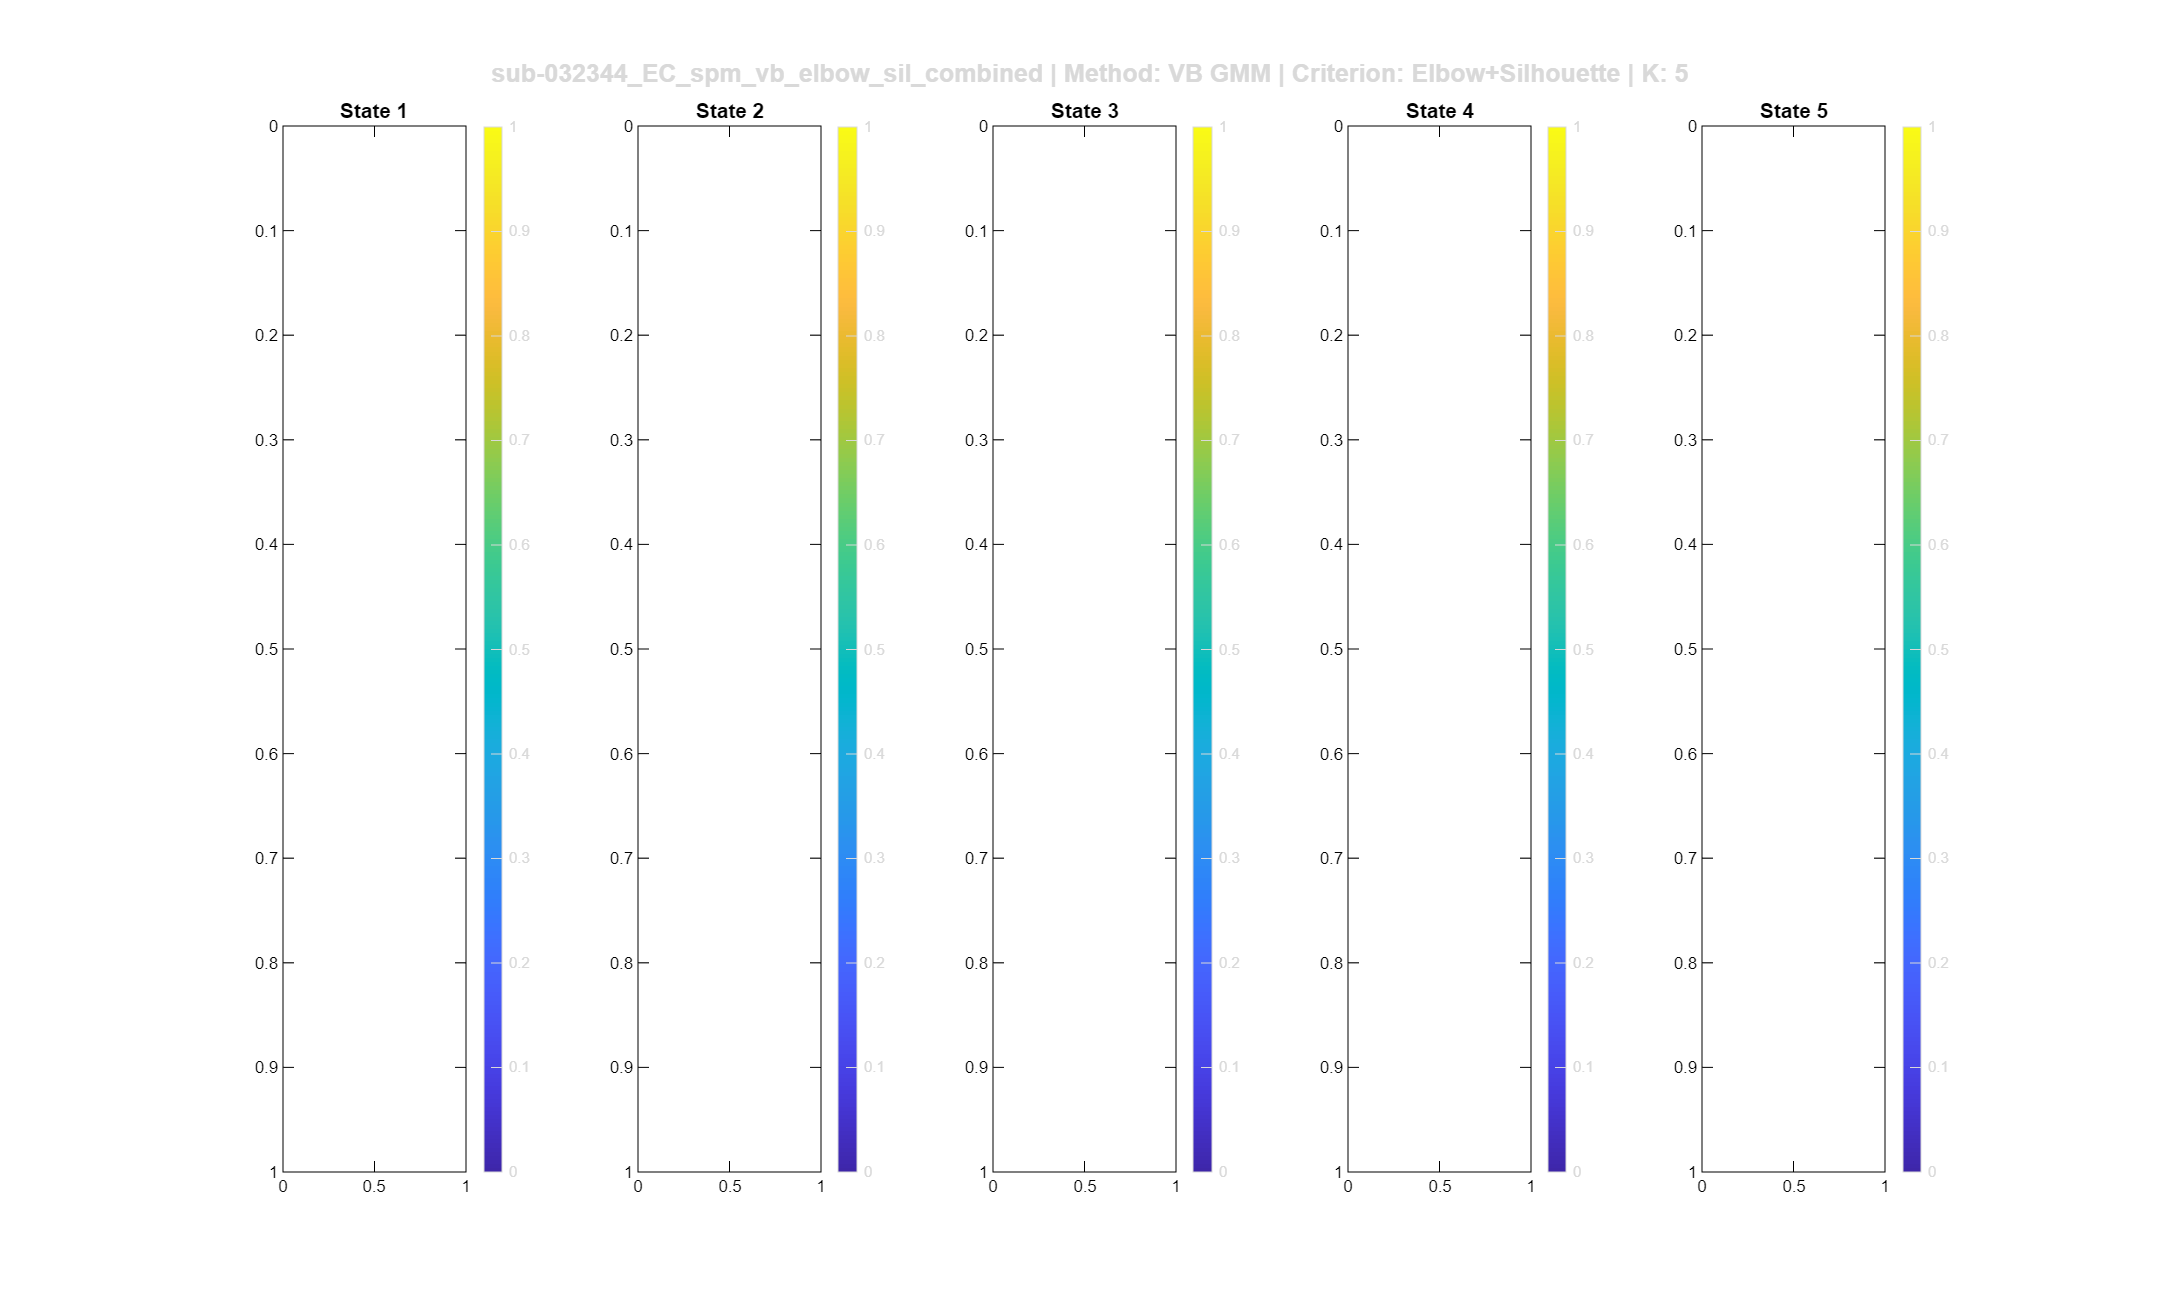
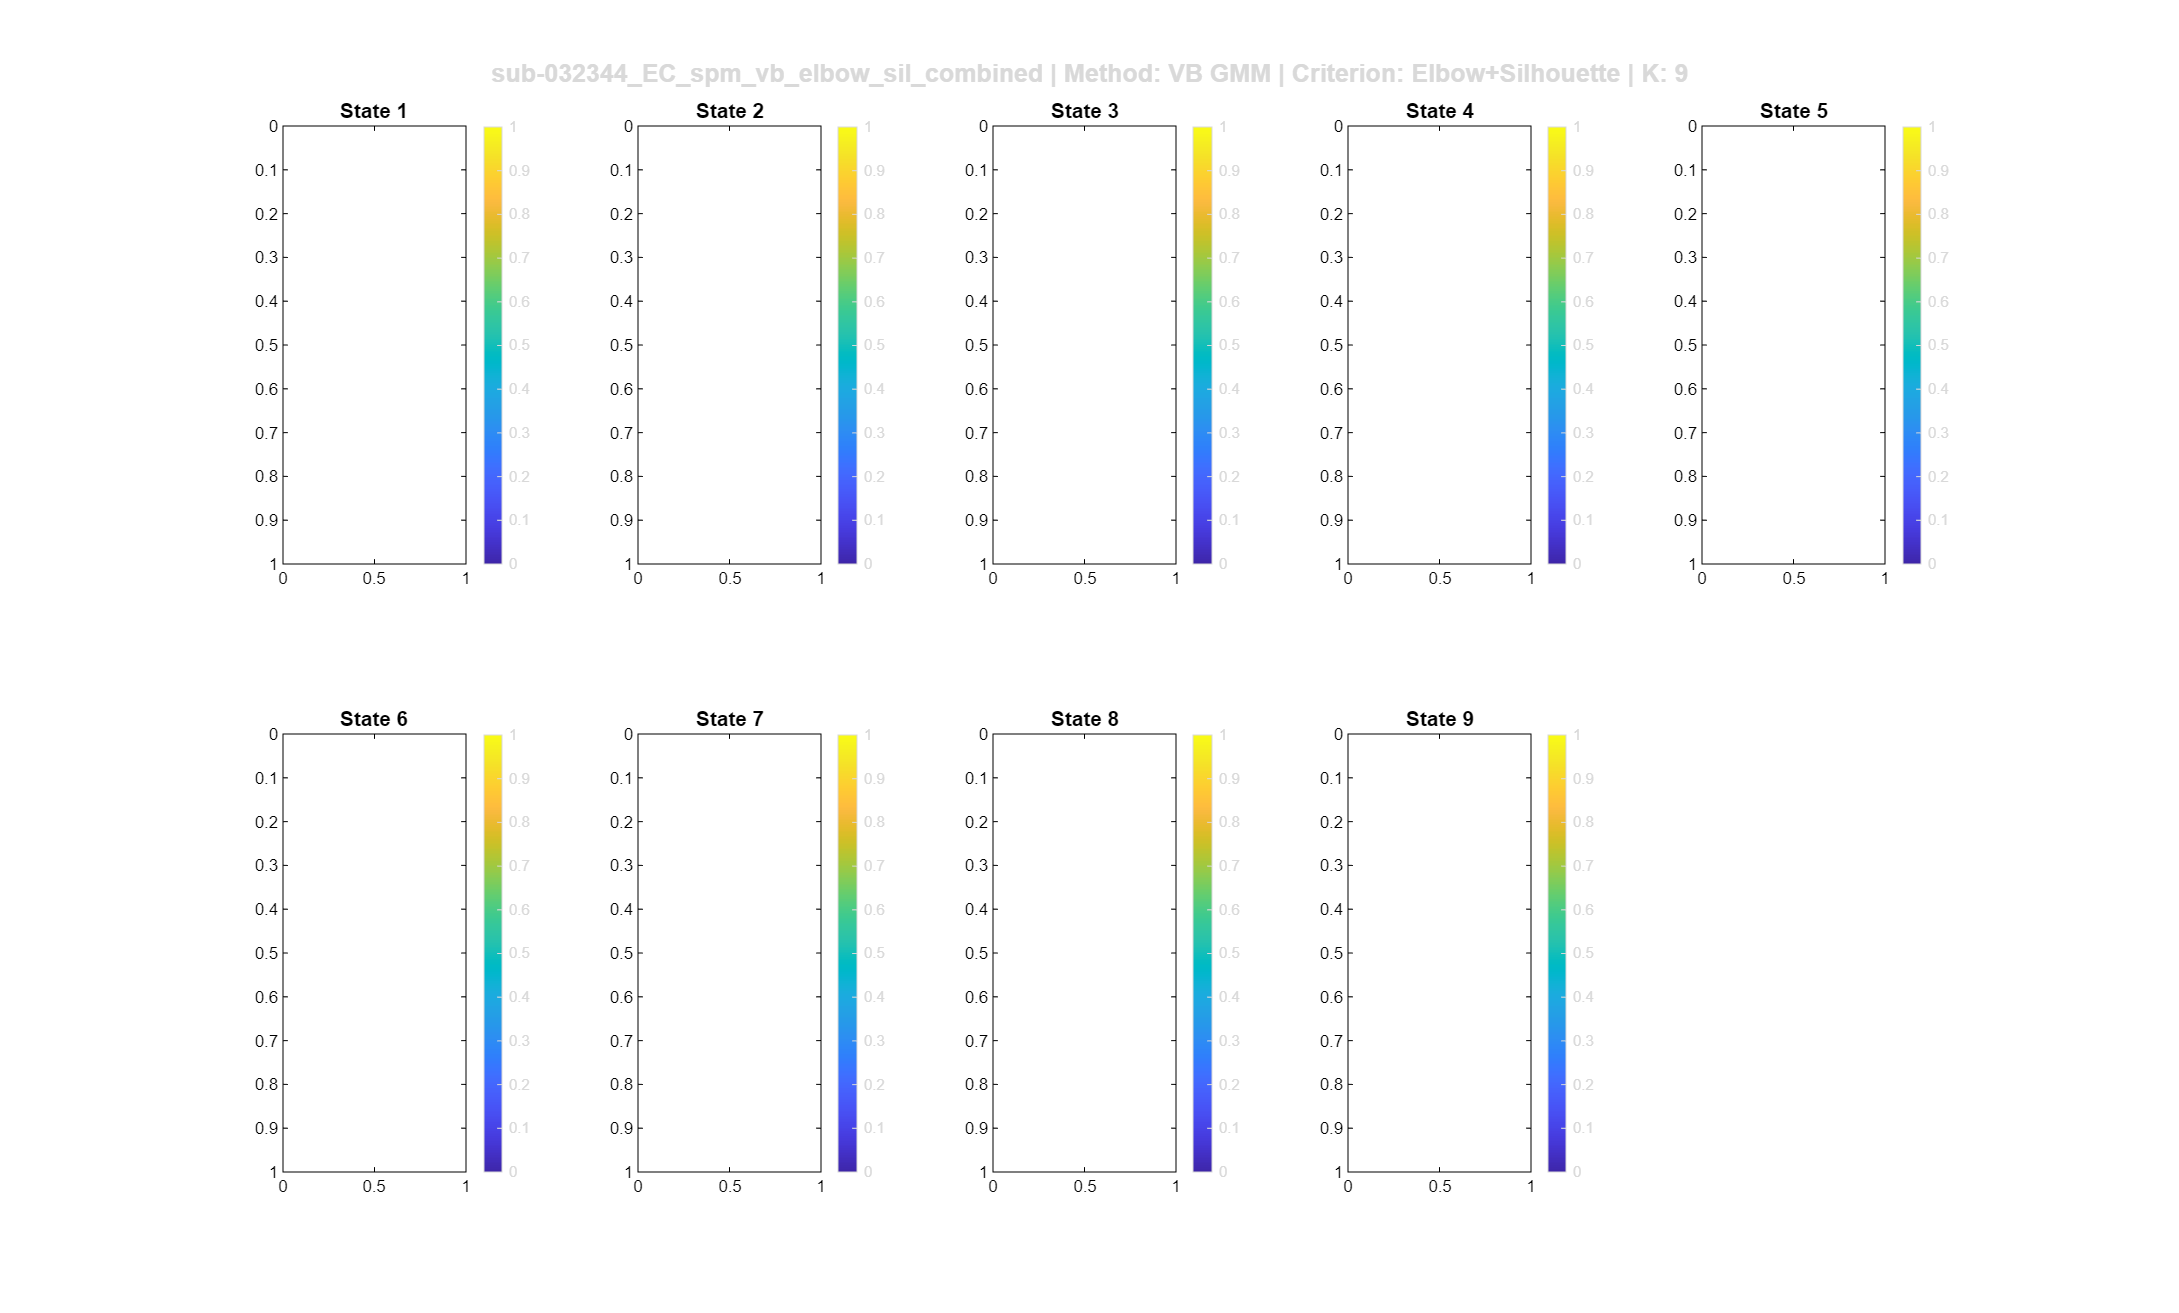
slurm

diff --git a/validate_simulated_eeg_representativeness.m b/validate_simulated_eeg_representativeness.m
@@ -1,0 +1,237 @@
+function report = validate_simulated_eeg_representativeness(Sim, varargin)
+% VALIDATE_SIMULATED_EEG_REPRESENTATIVENESS Quantitative QC for synthetic EEG.
+%
+% The checks are deliberately broad sanity bounds, not proof of realism:
+% amplitude/GFP scale, 1/f spectral slope, microstate dwell times, state
+% coverage, map distinctness, and artifact/heavy-tail evidence.
+
+    p = inputParser;
+    addRequired(p, 'Sim', @isstruct);
+    addParameter(p, 'output_file', '', @(x) ischar(x) || isstring(x));
+    addParameter(p, 'verbose', true, @islogical);
+    parse(p, Sim, varargin{:});
+
+    if ~isfield(Sim, 'X_noisy') || isempty(Sim.X_noisy)
+        error('Sim.X_noisy is required.');
+    end
+    if ~isfield(Sim, 'sfreq') || isempty(Sim.sfreq)
+        error('Sim.sfreq is required.');
+    end
+
+    X = double(Sim.X_noisy);
+    sfreq = double(Sim.sfreq);
+    [n_channels, n_samples] = size(X);
+    duration_s = n_samples / sfreq;
+
+    report = struct();
+    report.summary = struct( ...
+        'n_channels', n_channels, ...
+        'n_samples', n_samples, ...
+        'sfreq', sfreq, ...
+        'duration_s', duration_s, ...
+        'has_nan_or_inf', any(~isfinite(X(:))));
+
+    channel_rms = sqrt(mean((X - mean(X, 2)).^2, 2));
+    gfp = sqrt(mean((X - mean(X, 1)).^2, 1));
+    report.amplitude = struct( ...
+        'global_rms_uv', std(X(:)), ...
+        'median_channel_rms_uv', median(channel_rms), ...
+        'p95_channel_rms_uv', prctile(channel_rms, 95), ...
+        'peak_abs_uv', max(abs(X(:))), ...
+        'gfp_median_uv', median(gfp), ...
+        'gfp_p95_uv', prctile(gfp, 95), ...
+        'gfp_max_uv', max(gfp), ...
+        'flat_channel_fraction', mean(channel_rms < 1e-6));
+
+    [freqs, mean_power] = mean_power_spectrum(X, sfreq);
+    report.spectrum = spectrum_metrics(freqs, mean_power);
+
+    report.microstate_dynamics = struct();
+    if isfield(Sim, 'z_true') && ~isempty(Sim.z_true)
+        report.microstate_dynamics = microstate_dynamics_metrics(Sim.z_true, sfreq);
+    end
+
+    report.maps = struct();
+    if isfield(Sim, 'maps_true') && ~isempty(Sim.maps_true)
+        util = microstate_utilities_SHARED();
+        maps_norm = util.normalize_maps(Sim.maps_true);
+        corr_matrix = abs(maps_norm * maps_norm');
+        corr_matrix(eye(size(corr_matrix)) > 0) = NaN;
+        report.maps = struct( ...
+            'K_true', size(Sim.maps_true, 1), ...
+            'max_abs_between_map_correlation', max(corr_matrix(:), [], 'omitnan'), ...
+            'mean_abs_between_map_correlation', mean(corr_matrix(:), 'omitnan'), ...
+            'max_abs_map_uv', max(abs(Sim.maps_true(:))));
+    end
+
+    report.artifacts = struct( ...
+        'excess_kurtosis', kurtosis(X(:)) - 3, ...
+        'fraction_samples_over_100uv', mean(any(abs(X) > 100, 1)), ...
+        'fraction_samples_over_200uv', mean(any(abs(X) > 200, 1)));
+    if isfield(Sim, 'n_overlap_events')
+        report.artifacts.n_overlap_events = Sim.n_overlap_events;
+    end
+
+    checks = build_checks(report);
+    report.checks = checks;
+    n_fail = sum(strcmp({checks.status}, 'FAIL'));
+    n_warn = sum(strcmp({checks.status}, 'WARN'));
+    if n_fail > 0
+        report.overall_status = 'FAIL';
+    elseif n_warn > 0
+        report.overall_status = 'WARN';
+    else
+        report.overall_status = 'PASS';
+    end
+
+    if p.Results.verbose
+        print_report(report);
+    end
+    if ~isempty(p.Results.output_file)
+        write_report_text(report, char(p.Results.output_file));
+    end
+end
+
+function [freqs, mean_power] = mean_power_spectrum(X, sfreq)
+    X = X - mean(X, 2);
+    n = size(X, 2);
+    F = fft(X, [], 2);
+    n_half = floor(n / 2) + 1;
+    power = abs(F(:, 1:n_half)).^2 / n;
+    freqs = (0:(n_half - 1)) * (sfreq / n);
+    mean_power = mean(power, 1);
+end
+
+function s = spectrum_metrics(freqs, power)
+    idx_fit = freqs >= 2 & freqs <= min(40, max(freqs)) & power > 0;
+    if sum(idx_fit) >= 3
+        coeff = polyfit(log10(freqs(idx_fit)), log10(power(idx_fit)), 1);
+        slope = coeff(1);
+    else
+        slope = NaN;
+    end
+    s = struct( ...
+        'power_slope_2_40hz', slope, ...
+        'delta_1_4', band_power(freqs, power, [1 4]), ...
+        'theta_4_8', band_power(freqs, power, [4 8]), ...
+        'alpha_8_13', band_power(freqs, power, [8 13]), ...
+        'beta_13_30', band_power(freqs, power, [13 30]), ...
+        'line_48_52', band_power(freqs, power, [48 52]));
+end
+
+function pwr = band_power(freqs, power, band)
+    idx = freqs >= band(1) & freqs < band(2);
+    if any(idx)
+        pwr = trapz(freqs(idx), power(idx));
+    else
+        pwr = NaN;
+    end
+end
+
+function d = microstate_dynamics_metrics(z, sfreq)
+    z = z(:)';
+    run_lengths = [];
+    run_states = [];
+    if isempty(z)
+        d = struct();
+        return;
+    end
+    start_idx = 1;
+    for i = 2:(numel(z) + 1)
+        if i > numel(z) || z(i) ~= z(start_idx)
+            run_lengths(end+1) = i - start_idx; %#ok<AGROW>
+            run_states(end+1) = z(start_idx); %#ok<AGROW>
+            start_idx = i;
+        end
+    end
+    dwell_ms = 1000 * run_lengths / sfreq;
+    states = unique(z(~isnan(z)));
+    coverage = zeros(size(states));
+    for i = 1:numel(states)
+        coverage(i) = mean(z == states(i));
+    end
+    d = struct( ...
+        'mean_dwell_ms', mean(dwell_ms), ...
+        'median_dwell_ms', median(dwell_ms), ...
+        'p05_dwell_ms', prctile(dwell_ms, 5), ...
+        'p95_dwell_ms', prctile(dwell_ms, 95), ...
+        'n_segments', numel(run_lengths), ...
+        'state_coverage', coverage, ...
+        'max_state_coverage', max(coverage), ...
+        'coverage_entropy', -sum(coverage .* log(coverage + eps)) / log(max(numel(coverage), 2)));
+end
+
+function checks = build_checks(report)
+    checks = struct('name', {}, 'status', {}, 'value', {}, 'message', {});
+    checks(end+1) = make_check('finite_signal', ~report.summary.has_nan_or_inf, 'FAIL', double(~report.summary.has_nan_or_inf), 'Signal contains NaN/Inf.');
+    checks(end+1) = make_range_check('channel_count', report.summary.n_channels, [19 256], 'WARN', 'Unusual EEG channel count.');
+    checks(end+1) = make_range_check('duration_s', report.summary.duration_s, [30 Inf], 'WARN', 'Very short simulations may not represent resting EEG dynamics.');
+    checks(end+1) = make_range_check('median_channel_rms_uv', report.amplitude.median_channel_rms_uv, [1 150], 'WARN', 'Median channel RMS is outside a broad EEG-like range.');
+    checks(end+1) = make_range_check('gfp_median_uv', report.amplitude.gfp_median_uv, [0.5 80], 'WARN', 'Median GFP is outside a broad EEG-like range.');
+    checks(end+1) = make_range_check('peak_abs_uv', report.amplitude.peak_abs_uv, [5 1000], 'WARN', 'Peak amplitude is implausibly small or extremely large.');
+    checks(end+1) = make_range_check('power_slope_2_40hz', report.spectrum.power_slope_2_40hz, [-3.5 -0.2], 'WARN', 'Power spectrum does not look broadly 1/f-like.');
+    if isfield(report.microstate_dynamics, 'mean_dwell_ms')
+        checks(end+1) = make_range_check('mean_dwell_ms', report.microstate_dynamics.mean_dwell_ms, [40 160], 'WARN', 'Mean dwell time is outside a typical microstate range.');
+        checks(end+1) = make_range_check('max_state_coverage', report.microstate_dynamics.max_state_coverage, [0 0.65], 'WARN', 'One state dominates the simulation.');
+    end
+    if isfield(report.maps, 'max_abs_between_map_correlation')
+        checks(end+1) = make_range_check('max_between_map_correlation', report.maps.max_abs_between_map_correlation, [0 0.98], 'WARN', 'At least two true maps are nearly redundant.');
+    end
+end
+
+function c = make_check(name, pass, fail_status, value, message)
+    if pass
+        status = 'PASS';
+        msg = '';
+    else
+        status = fail_status;
+        msg = message;
+    end
+    c = struct('name', name, 'status', status, 'value', value, 'message', msg);
+end
+
+function c = make_range_check(name, value, bounds, fail_status, message)
+    pass = isfinite(value) && value >= bounds(1) && value <= bounds(2);
+    c = make_check(name, pass, fail_status, value, message);
+end
+
+function print_report(report)
+    fprintf('\nSimulated EEG representativeness QC: %s\n', report.overall_status);
+    fprintf('  Channels=%d, duration=%.1fs, RMS=%.2f uV, GFP median=%.2f uV\n', ...
+        report.summary.n_channels, report.summary.duration_s, ...
+        report.amplitude.median_channel_rms_uv, report.amplitude.gfp_median_uv);
+    fprintf('  PSD slope 2-40 Hz=%.2f\n', report.spectrum.power_slope_2_40hz);
+    if isfield(report.microstate_dynamics, 'mean_dwell_ms')
+        fprintf('  Mean dwell=%.1f ms, max coverage=%.2f\n', ...
+            report.microstate_dynamics.mean_dwell_ms, report.microstate_dynamics.max_state_coverage);
+    end
+    for i = 1:numel(report.checks)
+        if ~strcmp(report.checks(i).status, 'PASS')
+            fprintf('  %s: %s (value=%.4g) %s\n', report.checks(i).status, ...
+                report.checks(i).name, report.checks(i).value, report.checks(i).message);
+        end
+    end
+end
+
+function write_report_text(report, output_file)
+    fid = fopen(output_file, 'w');
+    if fid < 0
+        error('Could not open QC output file: %s', output_file);
+    end
+    cleaner = onCleanup(@() fclose(fid));
+    fprintf(fid, 'Simulated EEG representativeness QC: %s\n', report.overall_status);
+    fprintf(fid, 'Channels: %d\nDuration_s: %.3f\nSampling_Hz: %.3f\n', ...
+        report.summary.n_channels, report.summary.duration_s, report.summary.sfreq);
+    fprintf(fid, 'Median_channel_RMS_uV: %.6g\nGFP_median_uV: %.6g\nPSD_slope_2_40Hz: %.6g\n', ...
+        report.amplitude.median_channel_rms_uv, report.amplitude.gfp_median_uv, ...
+        report.spectrum.power_slope_2_40hz);
+    if isfield(report.microstate_dynamics, 'mean_dwell_ms')
+        fprintf(fid, 'Mean_dwell_ms: %.6g\nMax_state_coverage: %.6g\n', ...
+            report.microstate_dynamics.mean_dwell_ms, report.microstate_dynamics.max_state_coverage);
+    end
+    fprintf(fid, '\nChecks:\n');
+    for i = 1:numel(report.checks)
+        fprintf(fid, '%s\t%s\t%.6g\t%s\n', report.checks(i).status, ...
+            report.checks(i).name, report.checks(i).value, report.checks(i).message);
+    end
+end